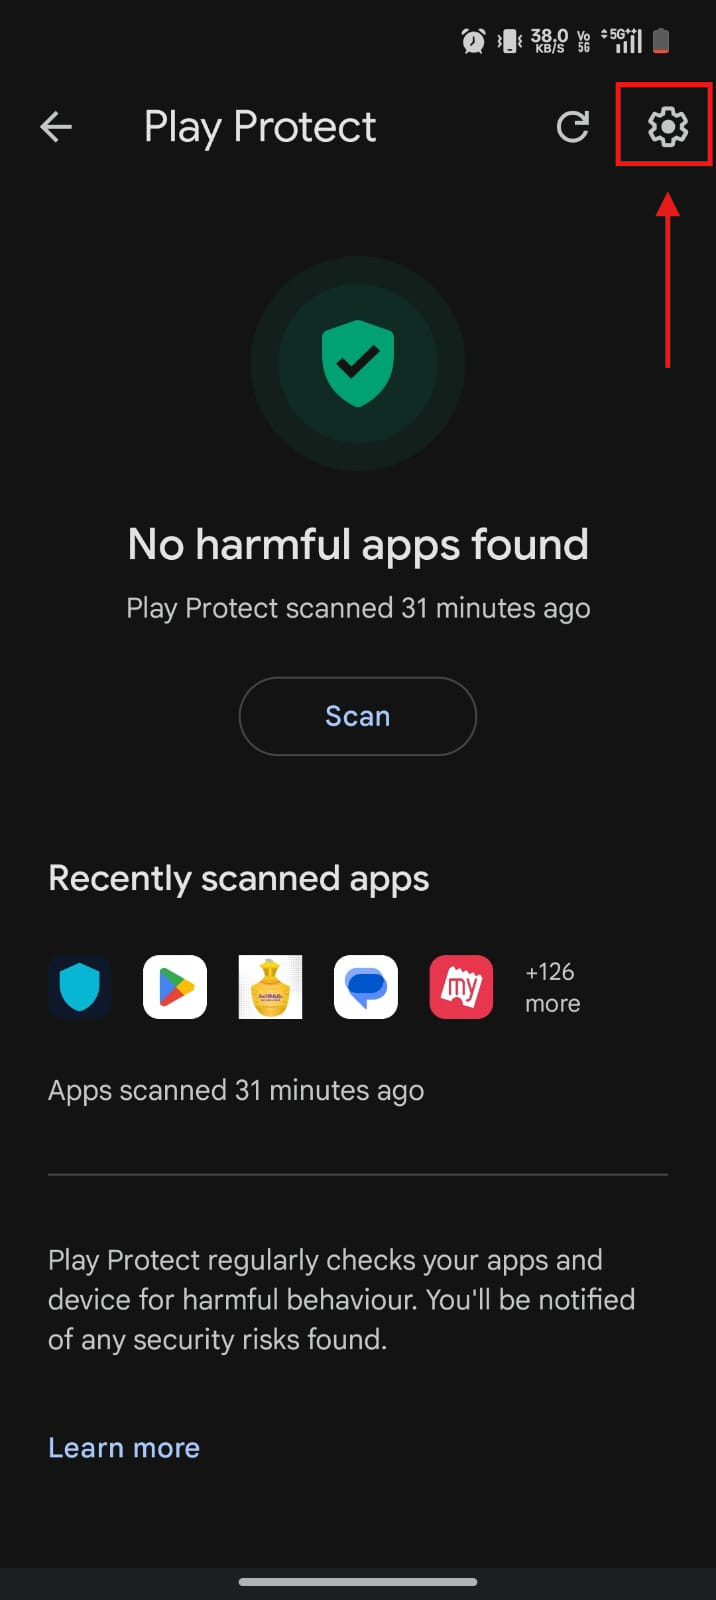
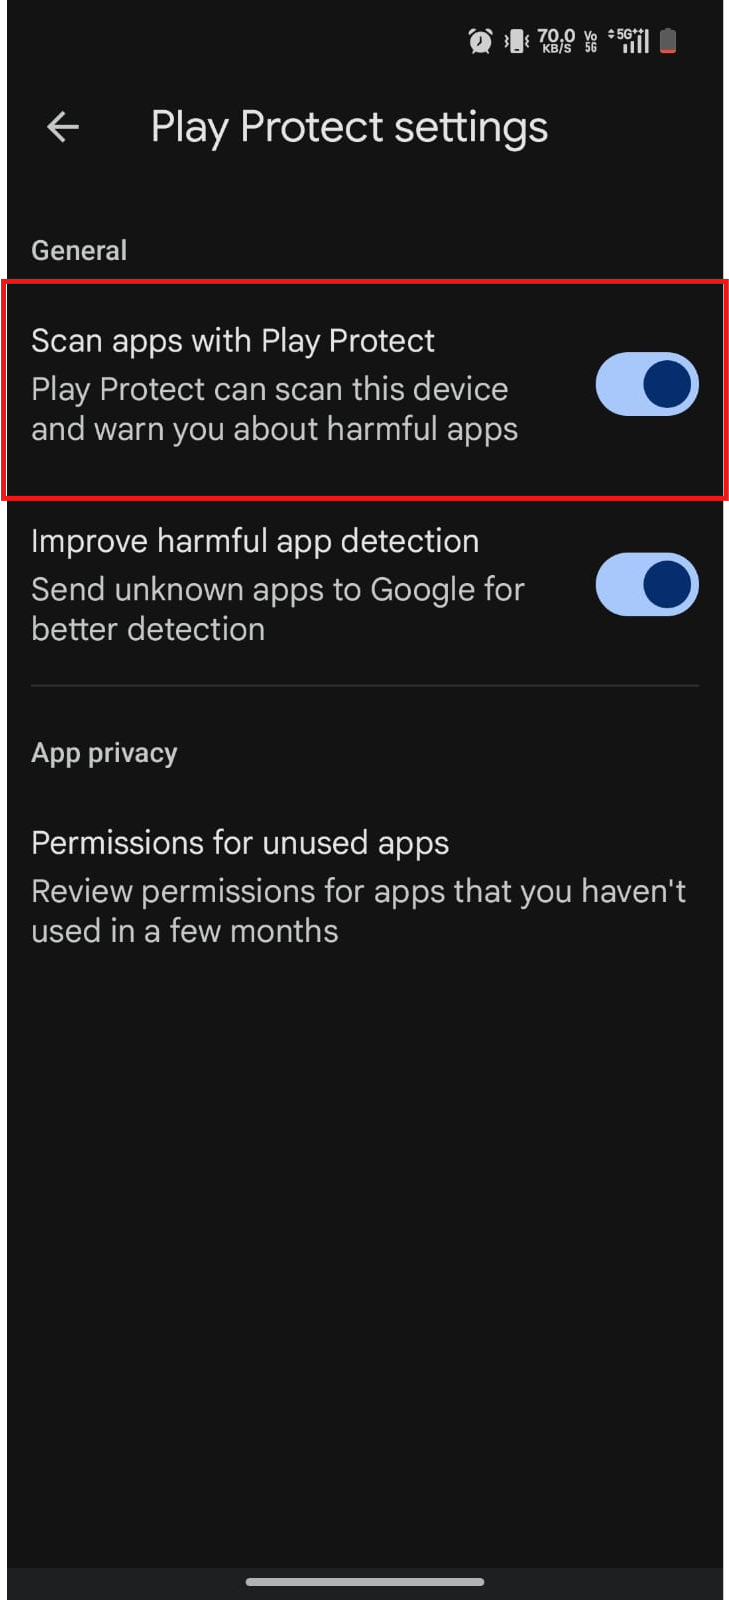
Add restricted settings images 3, 4, and 5 to README Step 2

diff --git a/README.md b/README.md
@@ -24,10 +24,13 @@ Before downloading the APK, you must temporarily pause Google Play Protect so it
 Because TrustShield intercepts notifications to scan for threats, you must grant it Notification Access. On modern Android versions, sideloaded apps have this setting "Restricted" by default.
 
 1. When you open TrustShield and try to enable Notification Access, Android may say **"Restricted Setting"**. Click OK.
+<img src="images/restricted_1.png" width="300" />
 
 2. Go to your phone's Settings -> Apps -> **TrustShield** (or long-press the TrustShield app icon and tap **App Info**). Tap the **three dots** in the top right corner.
+<img src="images/restricted_2.png" width="300" />
 
 3. Tap **Allow restricted settings**. You may be asked to authenticate with your fingerprint or PIN.
+<img src="images/restricted_3.png" width="300" />
 
 4. Finally, return to the TrustShield app, click Enable again, and you will now be able to grant the Notification Access permission successfully!
 
